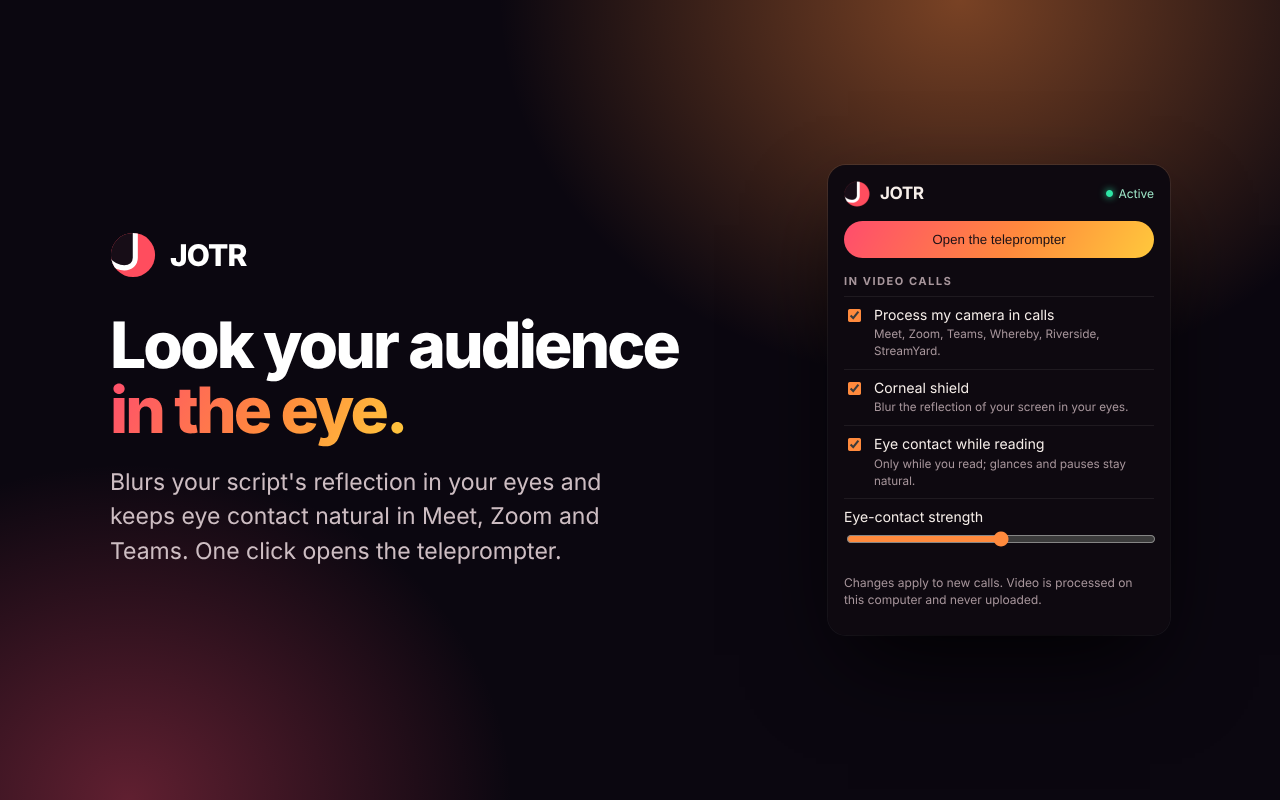
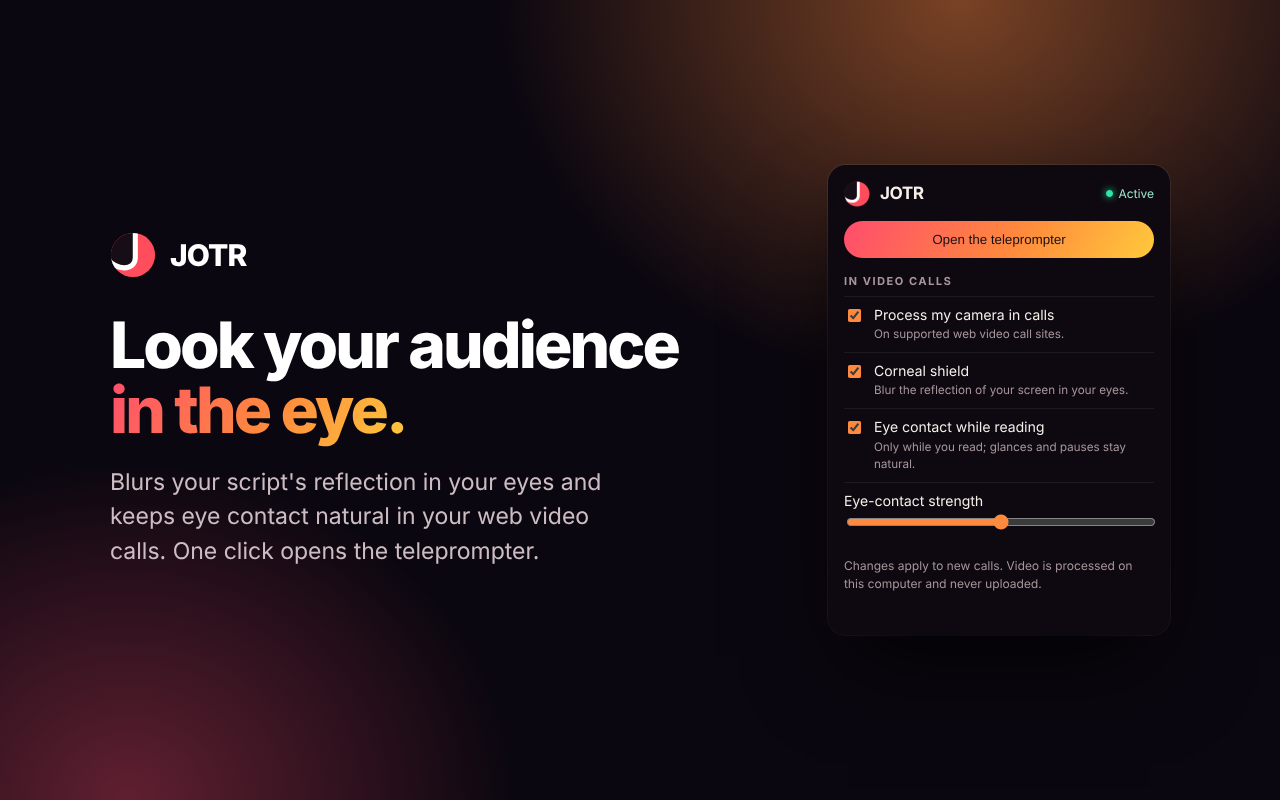
Extension 0.1.1: clearer name, store-safe description
- Name: JOTR – Teleprompter for Video Calls
- Description, popup and store screenshot without lists of app names
  (the store rejected the listing as keyword spam)
- Install test reads the version from the manifest

Changed region(s): [[0.6562, 0.4062, 0.9062, 0.75], [0.0938, 0.625, 0.4688, 0.7188]]

diff --git a/apps/extension/static/popup.html b/apps/extension/static/popup.html
@@ -42,7 +42,7 @@
     <button id="open" type="button">Open the teleprompter</button>
     <h2>In video calls</h2>
     <form id="settings">
-      <label><input type="checkbox" name="enabled" /> <span>Process my camera in calls<small>Meet, Zoom, Teams, Whereby, Riverside, StreamYard.</small></span></label>
+      <label><input type="checkbox" name="enabled" /> <span>Process my camera in calls<small>On supported web video call sites.</small></span></label>
       <label><input type="checkbox" name="shield" /> <span>Corneal shield<small>Blur the reflection of your screen in your eyes.</small></span></label>
       <label><input type="checkbox" name="eyeContact" /> <span>Eye contact while reading<small>Only while you read; glances and pauses stay natural.</small></span></label>
       <label style="display:block">Eye-contact strength <input type="range" name="strength" min="3" max="15" step="1" /></label>

diff --git a/apps/extension/e2e/extension.spec.ts b/apps/extension/e2e/extension.spec.ts
@@ -1,4 +1,5 @@
 import { chromium, expect, test } from "@playwright/test";
+import { readFileSync } from "node:fs";
 import { dirname, join } from "node:path";
 import { fileURLToPath } from "node:url";
 
@@ -43,7 +44,7 @@ test("the JOTR site can tell the extension is installed", async () => {
   try {
     const page = await context.newPage();
     await page.goto("http://localhost:4300/call.html");
-    await expect.poll(() => page.evaluate(() => document.documentElement.dataset.jotrExtension)).toBe("0.1.0");
+    await expect.poll(() => page.evaluate(() => document.documentElement.dataset.jotrExtension)).toBe(JSON.parse(readFileSync(join(dist, "manifest.json"), "utf8")).version);
   } finally {
     await context.close();
   }

diff --git a/apps/extension/STORE_LISTING.md b/apps/extension/STORE_LISTING.md
@@ -14,16 +14,16 @@ Upload `apps/extension/jotr-chrome-web-store.zip`. For every later update, raise
 
 ## Store listing tab
 
-**Name** (from the manifest): JOTR for video calls
+**Name** (from the manifest): JOTR – Teleprompter for Video Calls
 
-**Summary** (max 132 characters):
-Hide your script's reflection in your eyes and keep natural eye contact while you read, in Meet, Zoom and Teams.
+**Summary** (comes from the manifest, max 132 characters):
+Keep natural eye contact while you read in web video calls, and hide your script's reflection in your eyes and glasses.
 
-**Description:**
+**Description** (no lists of brand or app names: the store rejects them as keyword spam):
 
-JOTR is a teleprompter that keeps your eyes on your audience. This extension brings it into your video calls.
+JOTR is a teleprompter that keeps your eyes on your audience. This extension brings it into your video calls in the browser.
 
-In Google Meet, Zoom, Microsoft Teams, Whereby, Riverside and StreamYard (web), JOTR improves your own camera, on your computer:
+During a web video call, JOTR improves your own camera, right on your computer:
 
 • Corneal shield: softly blurs the reflection of your screen and script in your eyes and glasses, so viewers can't see what you're reading.
 • Natural eye contact while reading: gently corrects your gaze only while you read. Glances and pauses stay natural.
